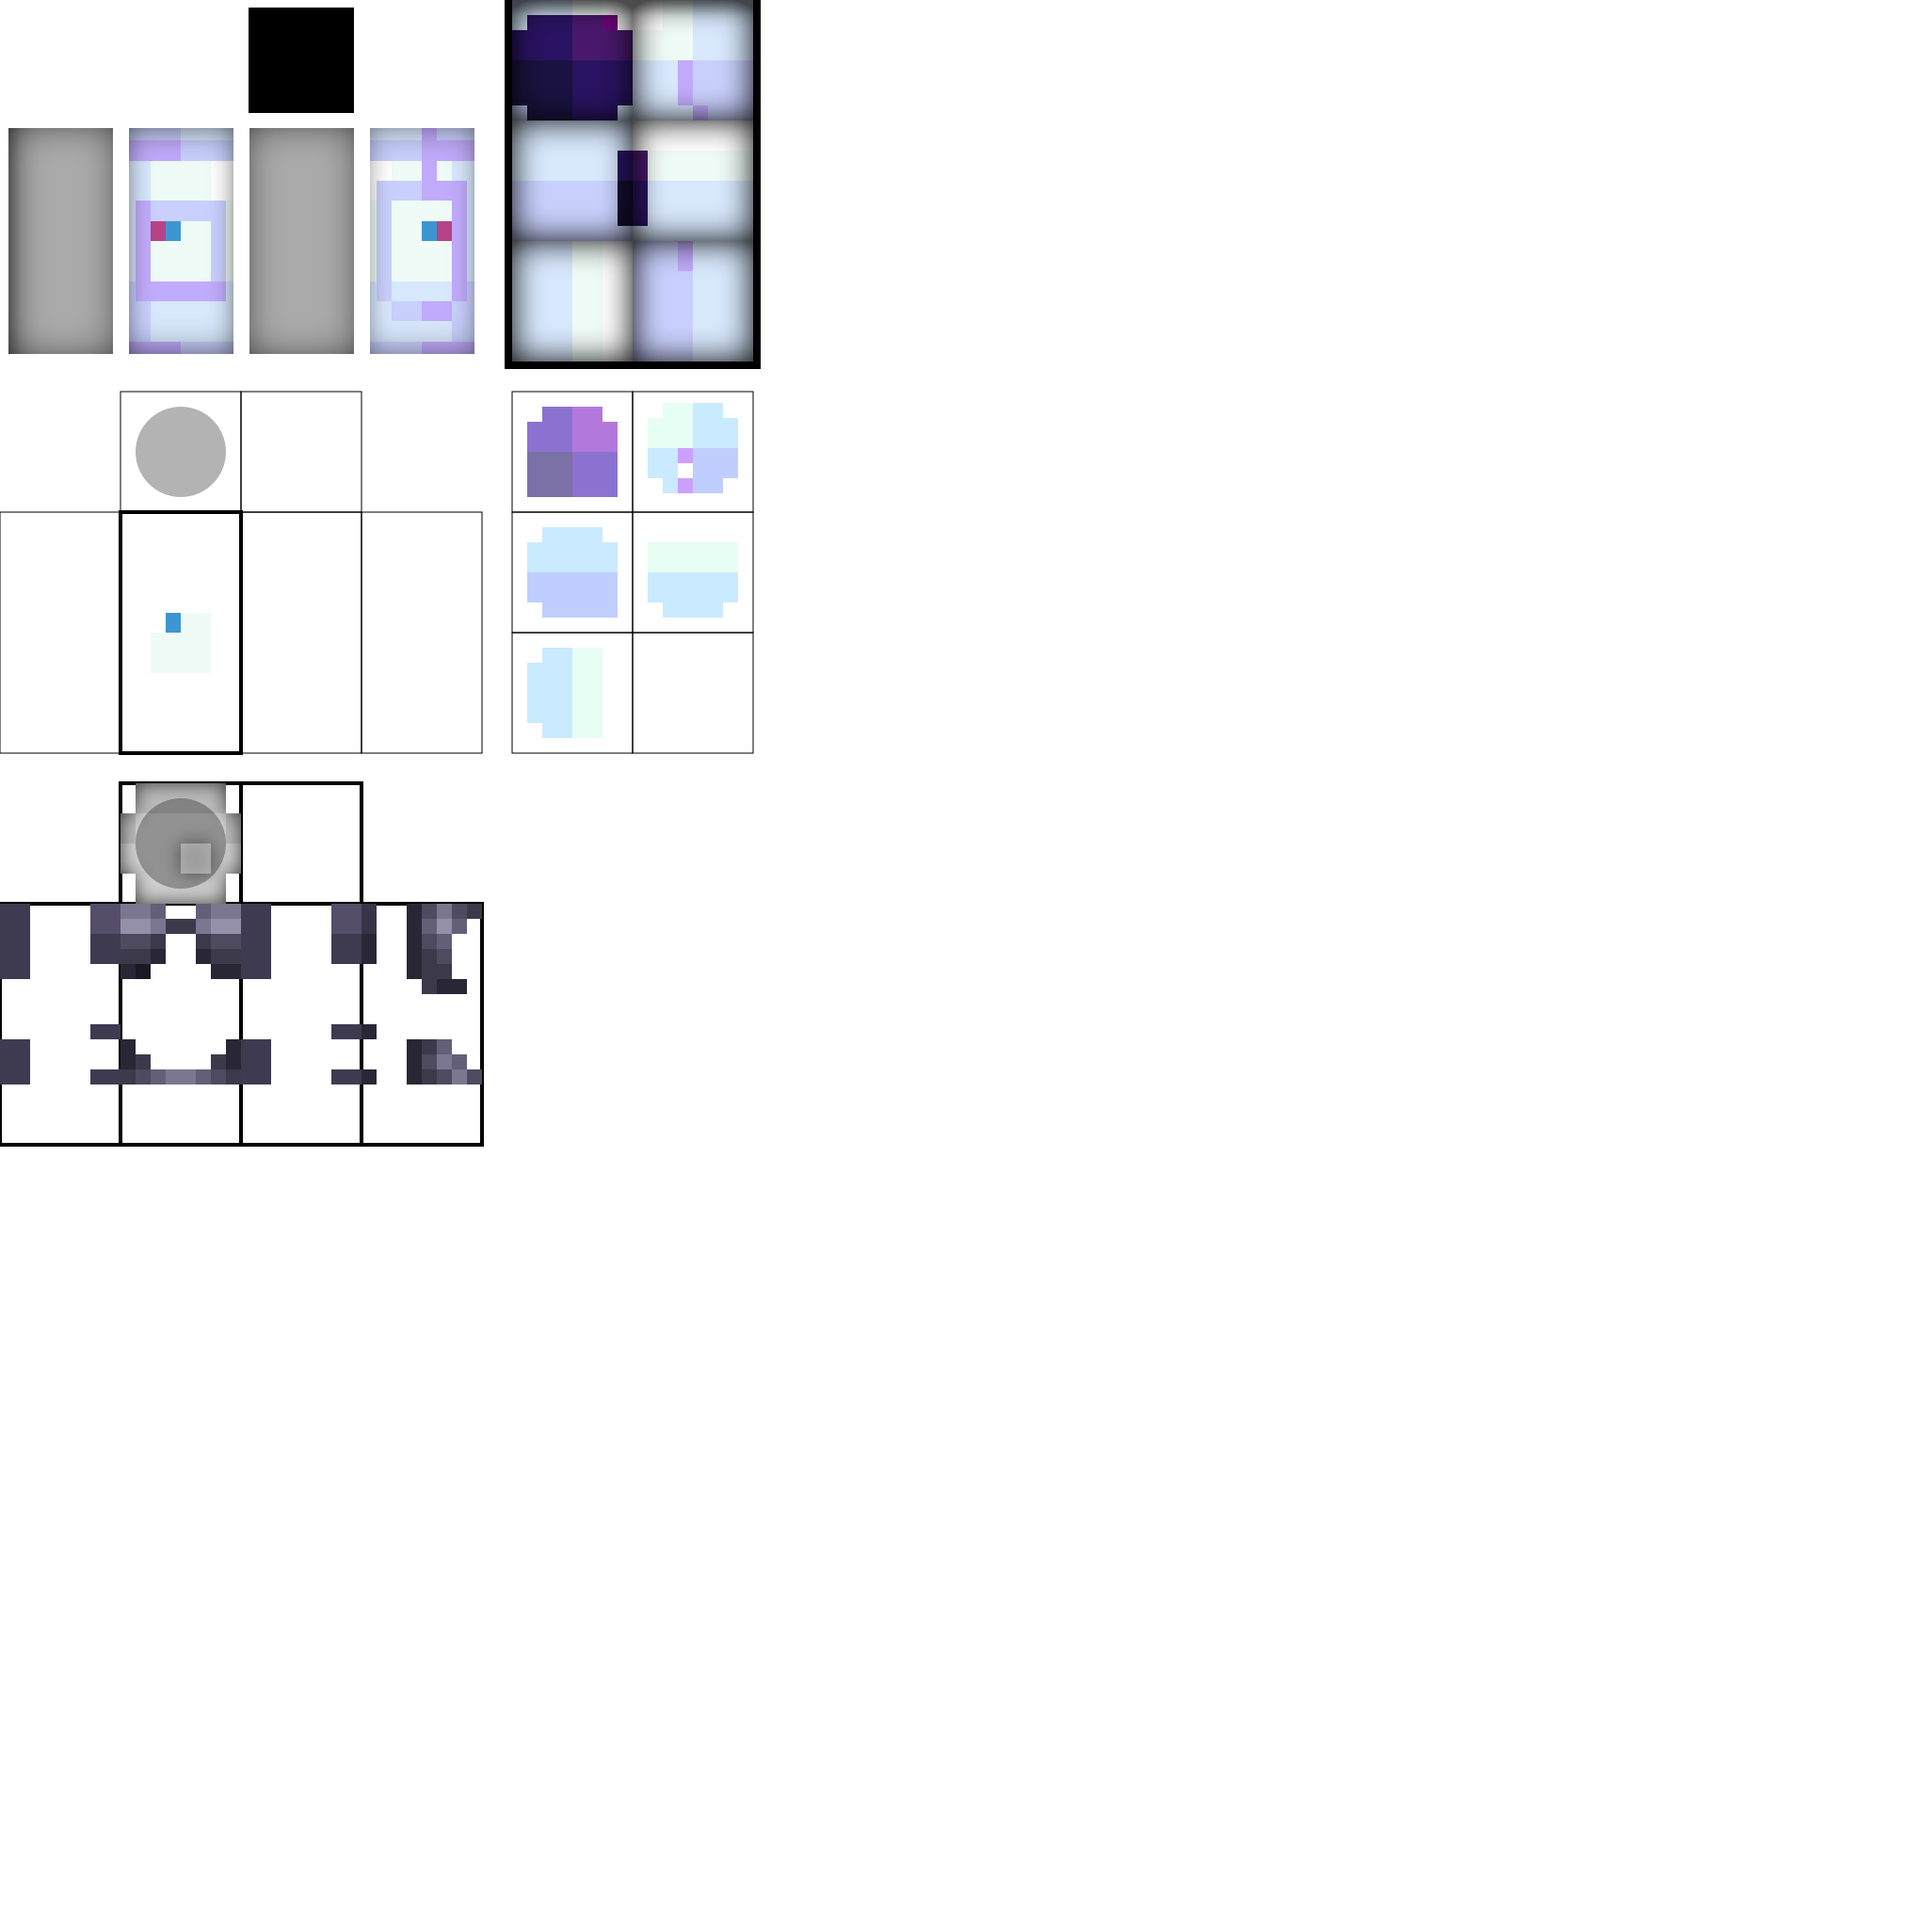
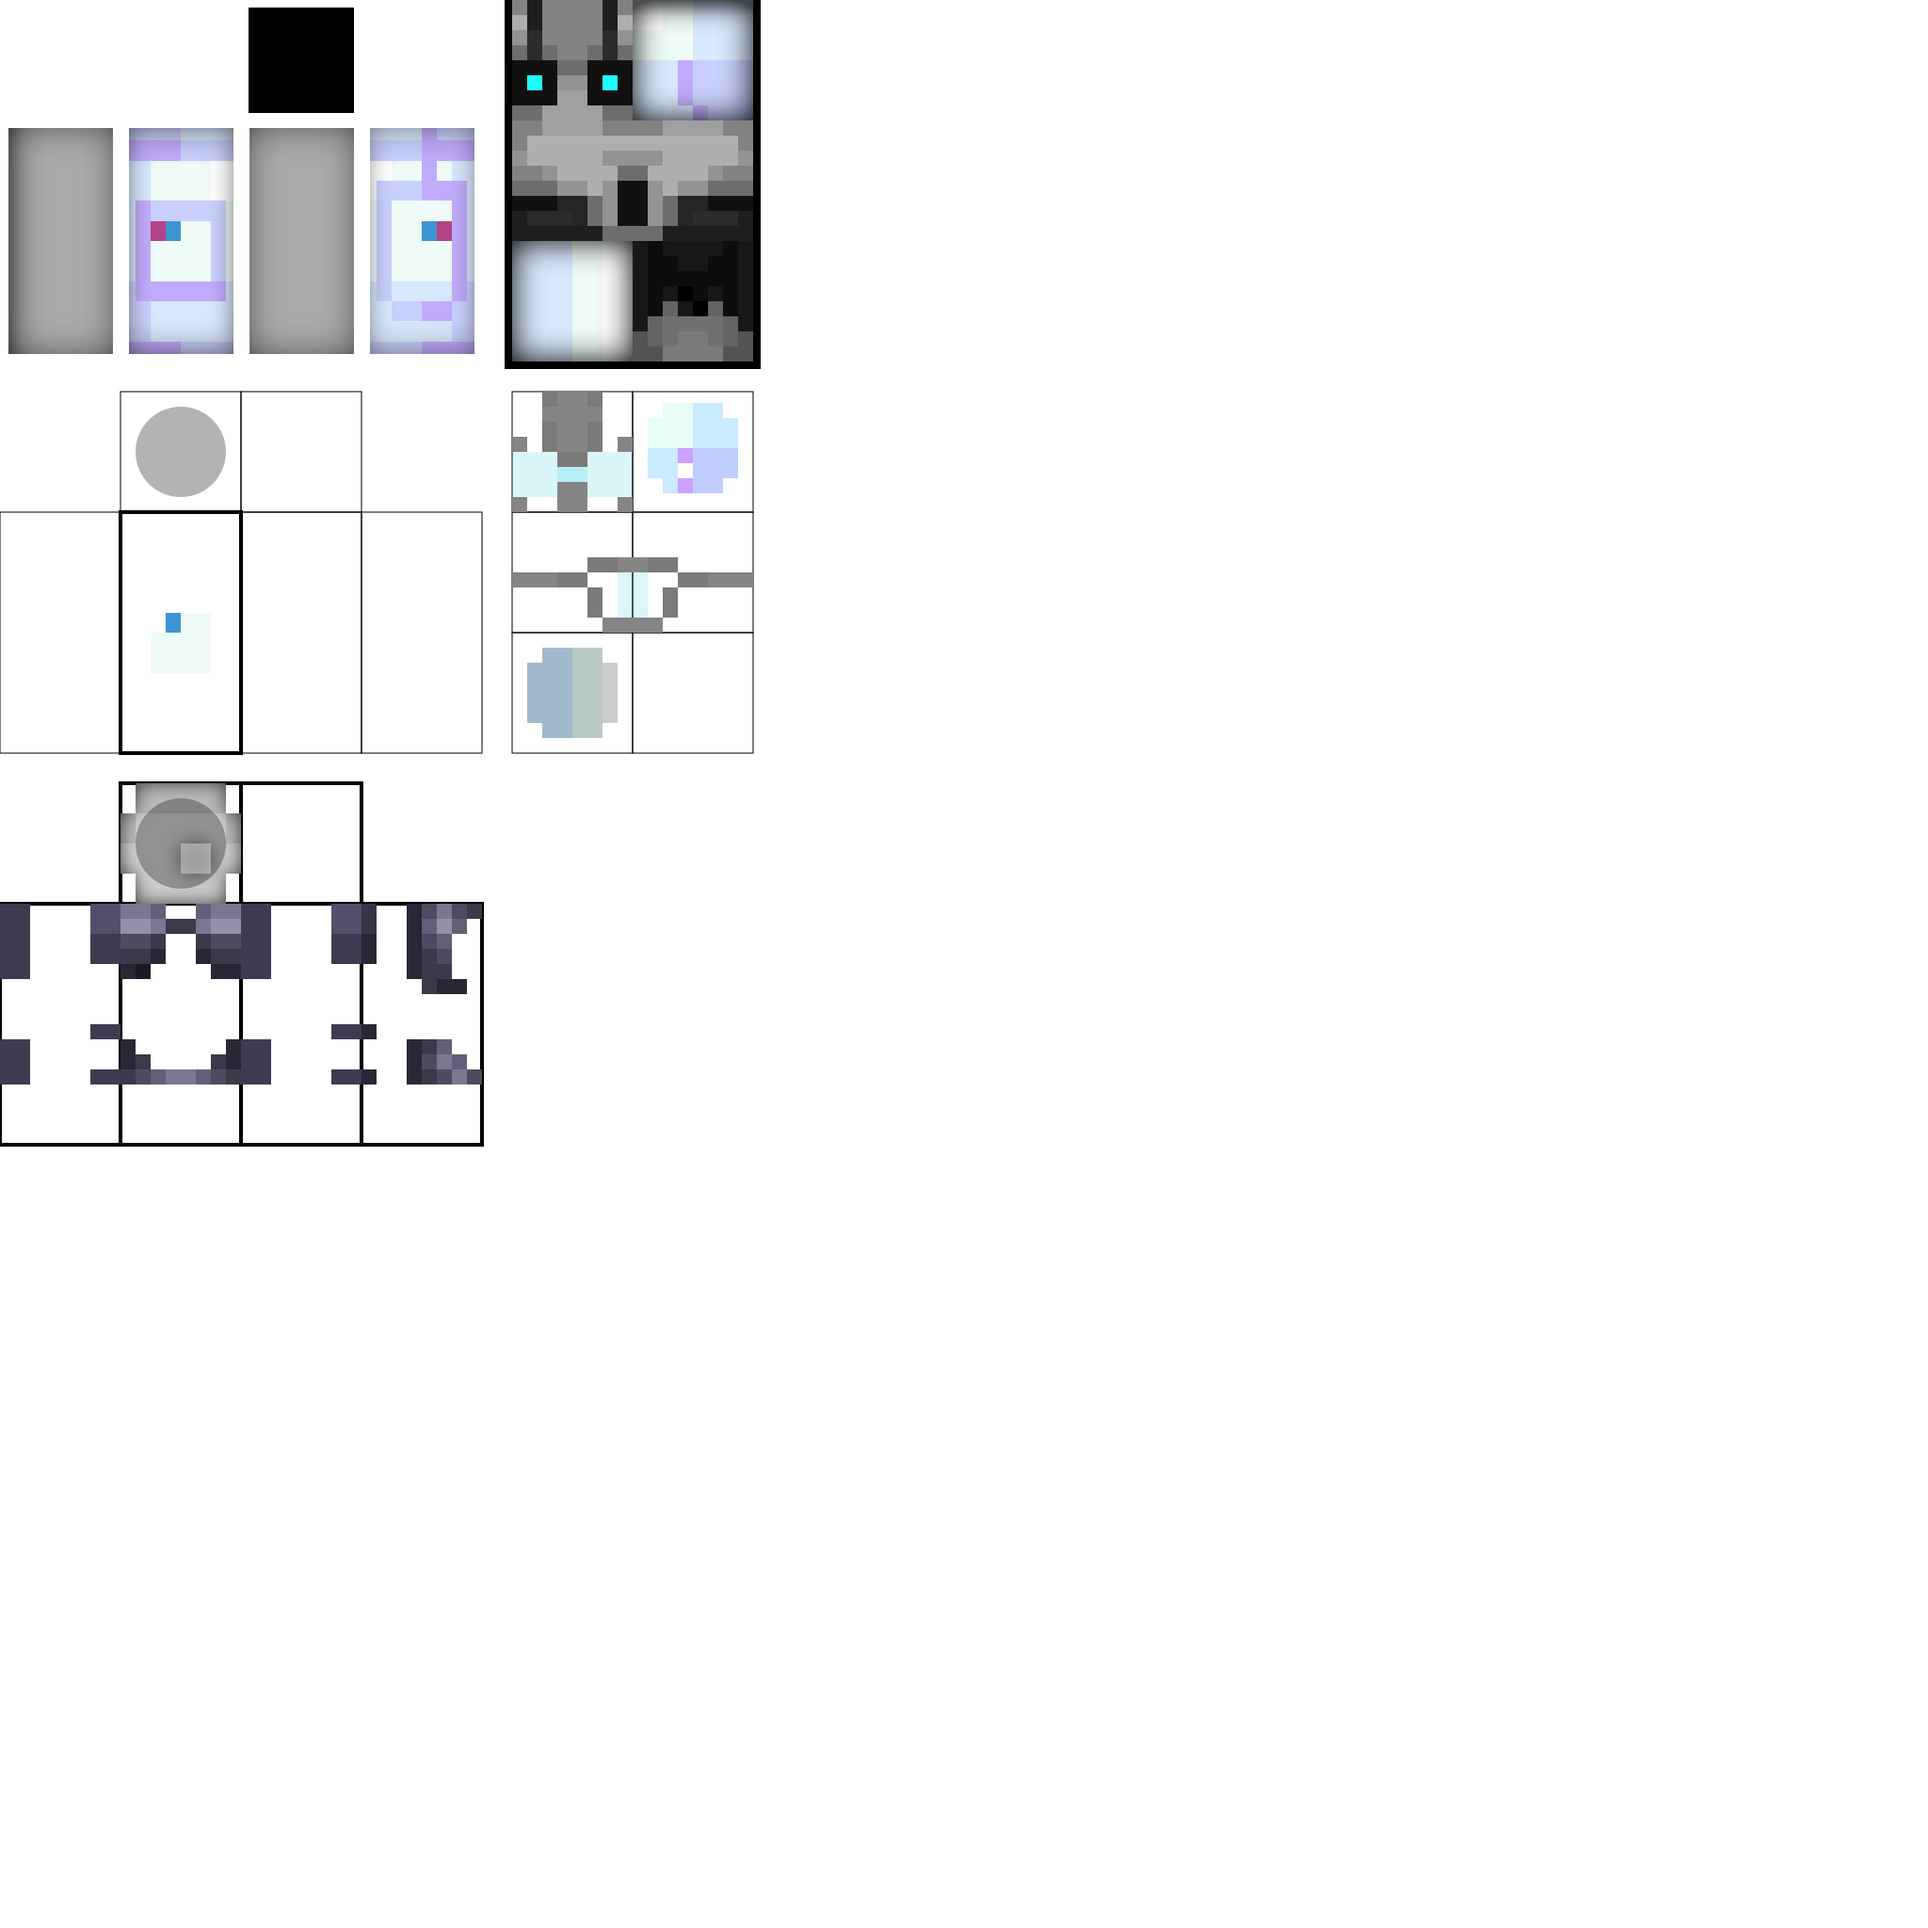
feat: change robot-1 head, head-overlay

Changed region(s): [[0.25, 0.0, 0.4062, 0.1875], [0.25, 0.1875, 0.4062, 0.4062]]

diff --git a/README.md b/README.md
@@ -322,6 +322,7 @@ We'll try to re-map publicly available Minecraft Skins.
 - https://namemc.com/minecraft-skins/tag/robot
   - ✅ https://namemc.com/skin/4718725ab9582b06 (blend)
   - ✅ https://namemc.com/skin/93f8e14071653c97 (blend)
+  - 🚧 https://namemc.com/skin/e91cc700154075b2
 
 - https://namemc.com/minecraft-skins/tag/general
 - https://namemc.com/minecraft-skins/tag/business
